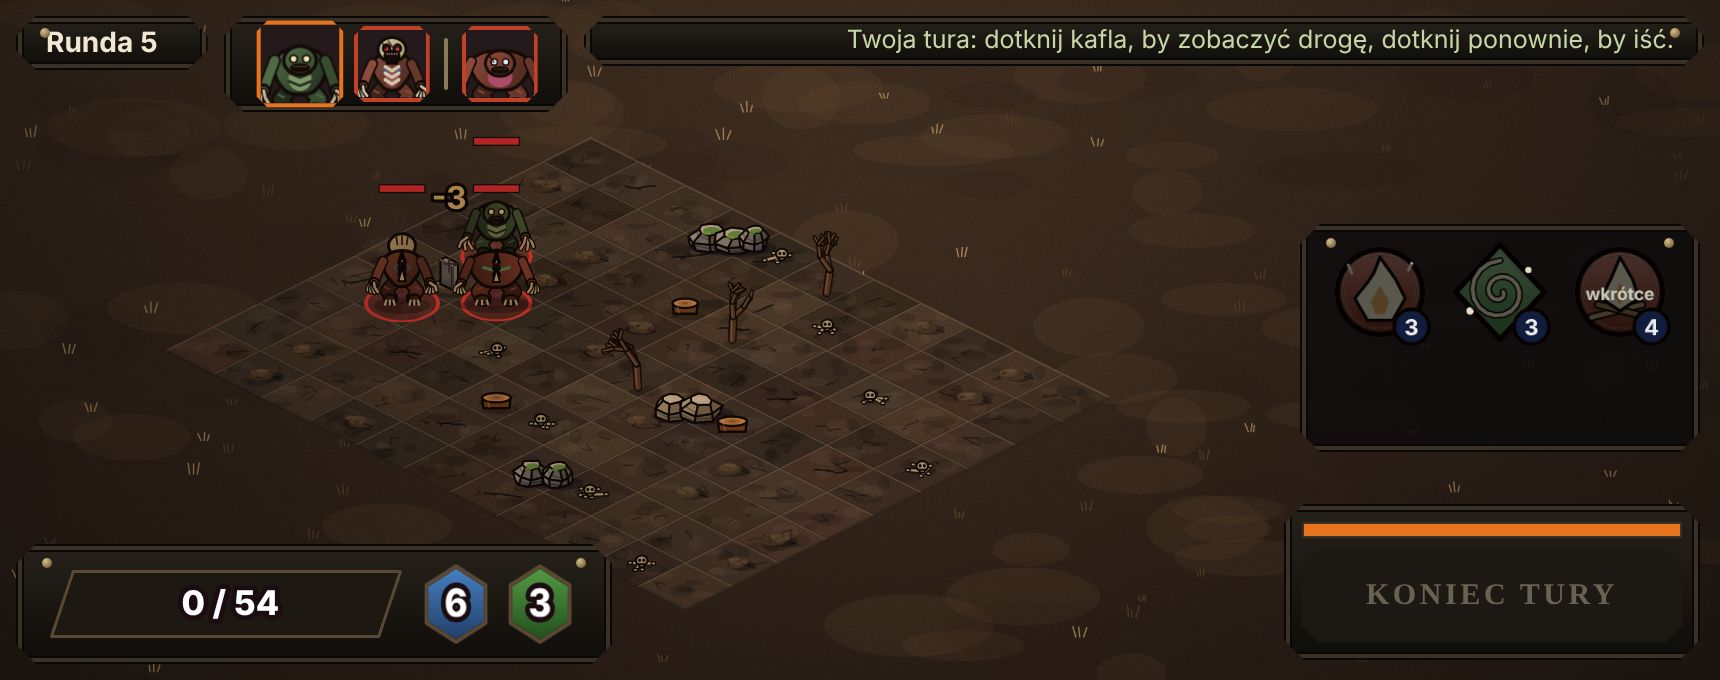
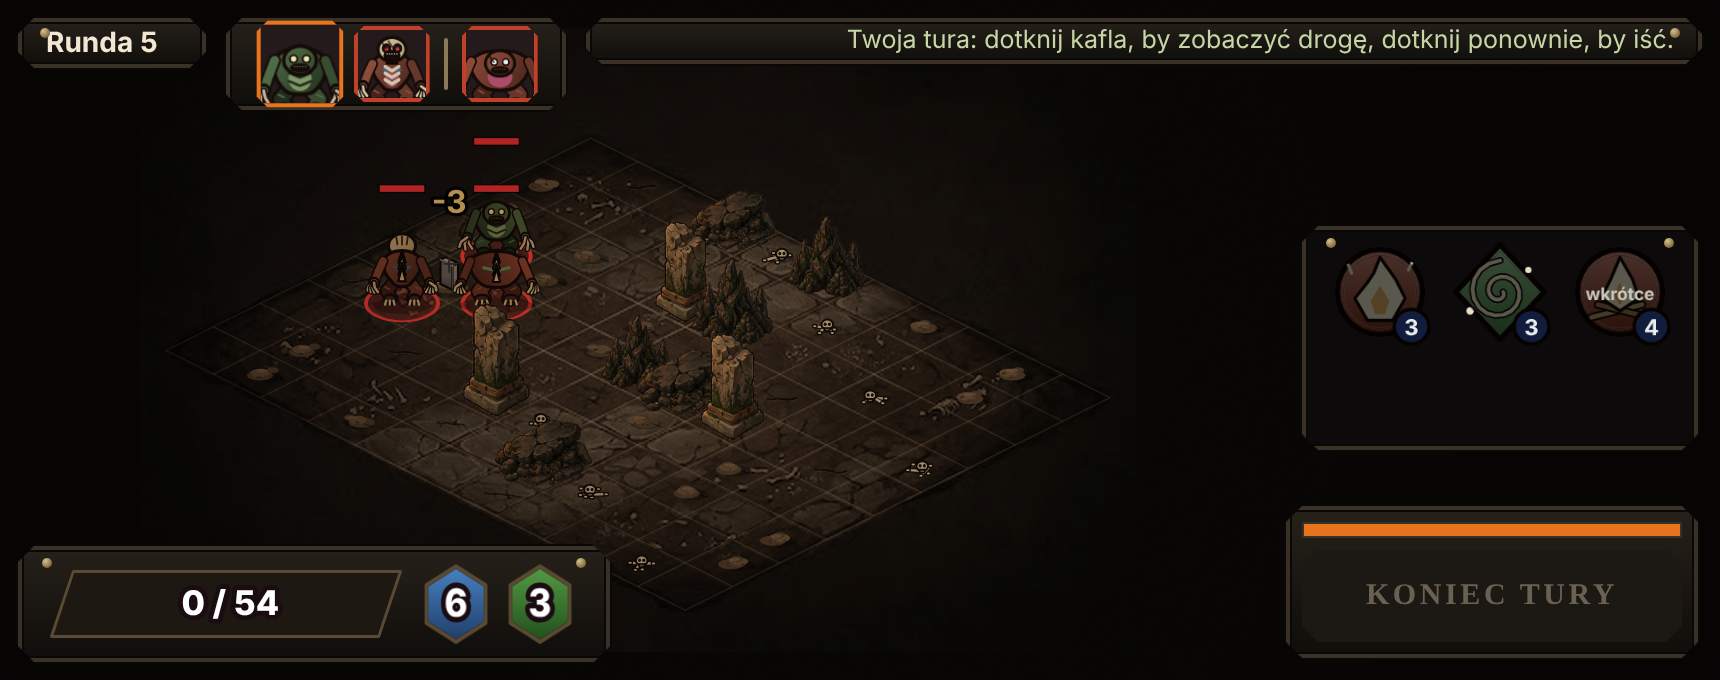
Pilotaż: 15 obrazów i tło areny w grze (sosna, brzoza, martwe drzewo, głaz, krzew, skrzynia, latarnia, studnia, chata, jama, nagrobek, pniak, przeszkody areny), nagrobki przy krypcie; narzędzie remove_checker do usuwania wypieczonej szachownicy
Claude-Session: https://claude.ai/code/session_01YGgK3XekFYaLDhBRBtmmRq

diff --git a/src/art/worldview.js b/src/art/worldview.js
@@ -18,6 +18,8 @@ export const MAXZ = 8, CS = 6, SUB = 8, SHS = 12, SHB = 2, LEVELS = [0.5, 0.75, 
 
 export const makeGrid = () => new IsoGrid(N, N, { x: N * 36, y: MAXZ * HZ + 60 });
 
+// rodzaje obiektów świata rysowane z gotowych obrazów (gdy się wczytały): sc przelicza skalę obiektu na skalę obrazu, vary dodaje drobne różnice rozmiaru
+const IMG_KIND = { oak: { key: 'dab', vary: true }, pine: { key: 'sosna', vary: true }, birch: { key: 'brzoza', vary: true }, dead: { key: 'martwe', vary: true }, rock: { key: 'glaz', sc: (o) => 0.5 + 0.5 * (o.sc || 1) }, bush: { key: 'krzew', sc: (o) => (o.sc || 1) * 1.1 }, crate: { key: 'skrzynia' }, barrel: { key: 'beczka' }, lamp: { key: 'latarnia' }, well: { key: 'studnia' }, stump: { key: 'pniak' }, grave: { key: 'nagrobek' } };
 const TREE = { oak: 1, pine: 1, birch: 1, dead: 1, swamp: 1 };
 const SMALL = { bush: (g, x, y, sc, s, o) => NA.bush(g, x, y, s, { biome: o.biome, sc: sc * 0.62 }), rock: (g, x, y, sc, s) => NA.rock(g, x, y, s, { sc: sc * 1.15 }), flowers: (g, x, y, sc, s) => NA.flowers(g, x, y, s, { sc: 0.8 }), mushrooms: (g, x, y, sc, s) => NA.mushrooms(g, x, y, s, { sc: 1.1 }), stump: (g, x, y, sc, s) => NA.stump(g, x, y, s, { sc: 1.1 }) };
 const PROP = { lamp: (g, x, y) => lampPost(g, x, y, 1.35), bench: (g, x, y) => bench(g, x, y, 1.25), barrel: (g, x, y, s) => barrel(g, x, y, 1.1, s), crate: (g, x, y, s) => crate(g, x, y, 1.1, s), cart: (g, x, y, s) => cart(g, x, y, 1.2, s), sack: (g, x, y) => sack(g, x, y, 1.1), logs: (g, x, y) => logs(g, x, y, 1.2), well: (g, x, y, s) => well(g, x, y, 1.2, s), fence: (g, x, y, s, o) => fence(g, x, y, 1.2, s, o && o.dir) };
@@ -253,8 +255,8 @@ export class WorldView {
   }
   objectDrawer(o) {
     const sd = o.seed % 7 + 1;
-    if (o.k === 'oak' && this.imgs.dab) { const flip = sd % 2 === 1, sc = 0.88 + 0.12 * (sd % 3); return [`img:dab:${flip ? 1 : 0}:${sd % 3}`, assetDim('dab', sc), (gg, ax, ay) => drawAsset(gg, this.imgs.dab, 'dab', ax, ay, { flip, sc })]; }
-    if (o.k === 'barrel' && this.imgs.beczka) return ['img:beczka', assetDim('beczka'), (gg, ax, ay) => drawAsset(gg, this.imgs.beczka, 'beczka', ax, ay)];
+    const I = IMG_KIND[o.k];
+    if (I && this.imgs[I.key]) { const flip = sd % 2 === 1, q = Math.round((I.sc ? I.sc(o) : 1) * 8) / 8 * (I.vary ? 0.9 + 0.1 * (sd % 3) : 1), key = `img:${I.key}:${flip ? 1 : 0}:${q.toFixed(2)}`; return [key, assetDim(I.key, q), (gg, ax, ay) => drawAsset(gg, this.imgs[I.key], I.key, ax, ay, { flip, sc: q })]; }
     if (TREE[o.k]) { const spec = genTree(sd, o.k, o.biome || 'summer'); return [`${o.k}:${sd}:${o.biome || ''}`, SPR[o.k], (gg, ax, ay) => drawTree(gg, ax, ay, spec)]; }
     if (SMALL[o.k]) { const sc = o.sc || 1; return [`${o.k}:${sd}:${o.biome || ''}:${Math.round(sc * 4)}`, SPR[o.k], (gg, ax, ay) => SMALL[o.k](gg, ax, ay, sc, sd, o)]; }
     if (PROP[o.k]) return [`${o.k}:${sd}:${o.dir || ''}`, SPR[o.k], (gg, ax, ay) => PROP[o.k](gg, ax, ay, sd, o)];
@@ -264,7 +266,7 @@ export class WorldView {
   // źródła światła w świecie (lampy, pochodnie przy wejściach) w pikselach świata: używane w nocy i do migotania
   collectLights() {
     const out = [], w = this.w;
-    for (const o of w.objects) if (o.k === 'lamp') { const p = this.pos(o.x, o.y); out.push({ x: p[0], y: p[1] - 50, r: 130, a: 0.9, ph: o.x * 7.3 + o.y }); }
+    for (const o of w.objects) if (o.k === 'lamp') { const p = this.pos(o.x, o.y), L = ASSETS.latarnia, lit = this.imgs.latarnia; out.push({ x: lit ? p[0] + (L.lights[0][0] - 0.5) * L.w : p[0], y: lit ? p[1] + L.lights[0][1] * L.h - (L.h - L.foot) : p[1] - 50, r: 130, a: 0.9, ph: o.x * 7.3 + o.y }); }
     // wejścia: światło wychodzi z pochodni (płomienie na słupach przy portyku krypty) albo z dziupli jamy, a nie z całej bryły
     w.entrances.forEach((e, i) => { const p = this.pos(e.at[0], e.at[1]), sc = this.entSpecs[i].scale || 1;
       const A = ASSETS.krypta; if (e.kind === 'krypta' && this.imgs.krypta) for (const [fx, fy] of A.lights) out.push({ x: p[0] + (fx - 0.5) * A.w, y: p[1] + fy * A.h - (A.h - A.foot), r: 95, a: 0.95, ph: i + fx * 7 });
@@ -337,8 +339,10 @@ export class WorldView {
   drawWithOcclusion(g, occ, scale, drawFn) {
     drawFn(); if (occ && occ.length) for (const k of occ) this.redrawTile(g, k, scale);
   }
+  // chata z obrazu na podstawie budynku typu cottage: szerokość z obrysu, podstawa w środku obrysu
+  bldDraw(b) { if (b.s.kind === 'cottage' && this.imgs.chata) { const A = ASSETS.chata, sc = (b.w + b.d) * 36 * 0.95 / A.w; return [`bi:${b.s.seed}`, assetDim('chata', sc), (gg, ax, ay) => drawAsset(gg, this.imgs.chata, 'chata', ax, ay, { sc }), true]; } return [`b:${b.s.seed}`, SPR.budynek, (gg, ax, ay) => { gg.save(); gg.translate(ax, ay); gg.scale(b.k, b.k); drawBuilding(gg, 0, 0, b.s); gg.restore(); }, false]; }
   // rysunek wejścia: gotowy obraz (krypta), gdy się wczytał, inaczej generator
-  entDraw(i) { const e = this.w.entrances[i]; if (e.kind === 'krypta' && this.imgs.krypta) return [`ei:${i}`, assetDim('krypta'), (gg, ax, ay) => drawAsset(gg, this.imgs.krypta, 'krypta', ax, ay)]; return [`e:${i}`, SPR[e.kind], (gg, ax, ay) => drawEntrance(gg, ax, ay, this.entSpecs[i])]; }
+  entDraw(i) { const e = this.w.entrances[i]; if (e.kind === 'krypta' && this.imgs.krypta) return [`ei:${i}`, assetDim('krypta'), (gg, ax, ay) => drawAsset(gg, this.imgs.krypta, 'krypta', ax, ay)]; if (e.kind === 'jama' && this.imgs.jama) return [`ei:${i}`, assetDim('jama'), (gg, ax, ay) => drawAsset(gg, this.imgs.jama, 'jama', ax, ay)]; return [`e:${i}`, SPR[e.kind], (gg, ax, ay) => drawEntrance(gg, ax, ay, this.entSpecs[i])]; }
   // cały świat widoczny w oknie (cam: środek w px świata, view: {w,h} w px css, zoom). Najpierw cały teren (niezależna warstwa), potem wszystkie
   // przedmioty i postacie od tyłu do przodu; wyższy teren zasłania tylko te przedmioty, które faktycznie leżą za nim.
   draw(g, cam, view, zoom, dpr, t, entities = []) {
@@ -367,9 +371,9 @@ export class WorldView {
     for (const it of items) {
       if (it.o) { const o = it.o, [sx, sy] = this.pos(o.x, o.y); if (sx < L - 160 || sx > R + 160 || sy < T - 40 || sy > B + 340) continue; const dr = this.objectDrawer(o); if (!dr) continue; if (o._occ === undefined) o._occ = this.occluderTiles(o.x, o.y, heightAt(w, o.x, o.y));
         const fa = TREE[o.k] ? this.fadeAlpha(o, dr[0], [sx - dr[1][2], sy - dr[1][3], dr[1][0], dr[1][1]], it.d, player) : 1; g.globalAlpha = fa; this.drawWithOcclusion(g, o._occ, scale, () => this.drawSprite(g, dr[0], dr[1], dr[2], sx, sy, scale)); g.globalAlpha = 1; }
-      else if (it.b) { const b = it.b, z = heightAt(w, b.sx - 0.5, b.sy - 0.5), [sx, sy] = this.proj(b.sx, b.sy, z); if (b._occ === undefined) b._occ = this.occluderTiles(b.sx, b.sy, z);
-        g.globalAlpha = this.fadeAlpha(b, `b:${b.s.seed}`, [sx - SPR.budynek[2], sy - SPR.budynek[3], SPR.budynek[0], SPR.budynek[1]], it.d - 1.2, player); this.drawWithOcclusion(g, b._occ, scale, () => this.drawSprite(g, `b:${b.s.seed}`, SPR.budynek, (gg, ax, ay) => { gg.save(); gg.translate(ax, ay); gg.scale(b.k, b.k); drawBuilding(gg, 0, 0, b.s); gg.restore(); }, sx, sy, scale)); g.globalAlpha = 1;
-        if (this.quality.smoke) this.drawSmoke(g, b, sx, sy, t); }
+      else if (it.b) { const b = it.b, z = heightAt(w, b.sx - 0.5, b.sy - 0.5), bd = this.bldDraw(b), [sx, sy] = bd[3] ? this.proj(b.sx - b.w / 2, b.sy - b.d / 2, z) : this.proj(b.sx, b.sy, z); if (b._occ === undefined) b._occ = this.occluderTiles(b.sx, b.sy, z);
+        g.globalAlpha = this.fadeAlpha(b, bd[0], [sx - bd[1][2], sy - bd[1][3], bd[1][0], bd[1][1]], it.d - 1.2, player); this.drawWithOcclusion(g, b._occ, scale, () => this.drawSprite(g, bd[0], bd[1], bd[2], sx, sy, scale)); g.globalAlpha = 1;
+        if (this.quality.smoke && !bd[3]) this.drawSmoke(g, b, sx, sy, t); }
       else if (it.en !== undefined) { const i = it.en, e = w.entrances[i], [sx, sy] = this.pos(e.at[0], e.at[1]), ed = this.entDraw(i); if (e._occ === undefined) e._occ = this.occluderTiles(e.at[0], e.at[1], heightAt(w, e.at[0], e.at[1]));
         g.globalAlpha = this.fadeAlpha(e, ed[0], [sx - ed[1][2], sy - ed[1][3], ed[1][0], ed[1][1]], it.d - 1.5 - 1.2, player); this.drawWithOcclusion(g, e._occ, scale, () => this.drawSprite(g, ed[0], ed[1], ed[2], sx, sy, scale)); g.globalAlpha = 1; }
       else { const e = it.e, occ = this.occluderTiles(e.x, e.y, heightAt(w, e.x, e.y)); this.drawWithOcclusion(g, occ, scale, () => e.draw(g, ...this.pos(e.x, e.y))); }

diff --git a/www/walka.html b/www/walka.html
@@ -82,6 +82,7 @@ import {genKopacz,drawKopacz} from '../src/art/creatures.js';
 import {DUNGEONS,dungeonLevel,levelAdvice} from '../src/game/dungeons.js';
 import {composeEncounter,spawnEncounter,enemyCap} from '../src/game/encounter.js';
 import {referenceHero} from '../src/game/reference.js';
+import {ASSETS} from '../src/art/assets.js';
 import {makeArena,ARENA} from '../src/game/arena.js';
 import {loadCharacter,saveCharacter} from '../src/game/save.js';
 import {addXp,chamberReward,newRun,loadRun,saveRun,clearRun,roomSeed,levelFromXp} from '../src/game/run.js';
@@ -127,10 +128,12 @@ const COL={earth:'#d2a45c',fire:'#ff6a3a',water:'#5ab0ff',air:'#7ae07a',neutral:
 
 const bg=document.createElement('canvas');
 // tło areny z gotowego obrazu (www/img/arena-<motyw>.png, rozmiar planszy w pikselach świata razy 2): gdy plik istnieje, zastępuje podłogę z generatora
+// przeszkody areny z gotowych obrazów (gdy się wczytają; inaczej generatory)
+const OBST=['przeszkoda1','przeszkoda2','stalagmit'].map(k=>{const im=new Image(),o={k,im,ok:false};im.onload=()=>{o.ok=true};im.src=ASSETS[k].src;return o});
 let arenaImg=null;{const im=new Image();im.onload=()=>{arenaImg=im;if(typeof renderBg==='function'&&cv.width>2)renderBg()};im.src='img/arena-'+(DG?DG.theme:'arena')+'.png'}
 let moodLayer=null;
 function renderBg(){bg.width=cv.width;bg.height=cv.height;const b=bg.getContext('2d');moodLayer=makeMoodLayer(document,cv.width,cv.height,mood);
-  N.ground(b,bg.width,bg.height,7,{biome:TH.biome});N.tufts(b,bg.width,bg.height,7,Math.round(bg.width*bg.height/1400*TH.tufts),null,{biome:TH.biome});
+  if(arenaImg){b.fillStyle='#0a0908';b.fillRect(0,0,bg.width,bg.height)}else{N.ground(b,bg.width,bg.height,7,{biome:TH.biome});N.tufts(b,bg.width,bg.height,7,Math.round(bg.width*bg.height/1400*TH.tufts),null,{biome:TH.biome});}
   b.setTransform(view.s,0,0,view.s,view.ox,view.oy);if(arenaImg)b.drawImage(arenaImg,0,0,WORLD.w,WORLD.h);else drawFlagstones(b,grid,7,TH.stone);drawGridLines(b,grid,'rgba(220,200,170,.16)');
   // ślady dawnych walk na kaflach: krew, kości, pęknięcia (stałe, zależne tylko od pozycji)
   for(let y=0;y<ROWS;y++)for(let x=0;x<COLS;x++){const h=(x*73+y*151+17)%11,c=grid.center(x,y);if(h<4&&TH.decals.length)DECALS[TH.decals[h%TH.decals.length]](b,c[0]+(h===0?4:0),c[1]+1,.9,x*7+y*3+h)}
@@ -315,6 +318,7 @@ function frame(now){
     if(preview.kind==='cast'){drawCellOutline(g,grid,preview.x,preview.y,'#ffffff',3.4);const c=grid.center(preview.x,preview.y);overlay.push(()=>label(c,`${preview.lo}-${preview.hi}${preview.known?'':'?'}`,'#ffd0a0'))}}
   const items=[];
   for(const kk of state.blocked){const x=kk%grid.cols,y=Math.floor(kk/grid.cols),c=grid.center(x,y);const t=(x*7+y*3)%3;
+    const ob=OBST[t];if(DG&&ob.ok){const A=ASSETS[ob.k],sc=1+((x*5+y*11)%3)*0.06;items.push({d:x+y+.5,f:()=>{g.imageSmoothingQuality='high';g.drawImage(ob.im,c[0]-A.w*sc/2,c[1]+12+A.foot-A.h*sc,A.w*sc,A.h*sc)}});continue}
     items.push({d:x+y+.5,f:()=>t===0?N.rock(g,c[0],c[1]+10,x*9+y,{sc:.9}):t===1?N.stump(g,c[0],c[1]+8,x+y*5):N.deadTree(g,c[0],c[1]+10,x*3+y,{sc:.8})})}
   for(const cl of state.clouds){const c=grid.center(cl.x,cl.y);items.push({d:cl.x+cl.y+.9,f:()=>ashCloud(g,c[0],c[1]+6,1.1,cl.x*7+cl.y)})}
   for(const gr of state.graves){const c=grid.center(gr.x,gr.y);items.push({d:gr.x+gr.y+.5,f:()=>grave(g,c[0],c[1]+8,1.15)})}

diff --git a/src/world/kraina.js b/src/world/kraina.js
@@ -162,6 +162,9 @@ export function generateWorld(seed = 1) {
   { const [ex, ey] = ROAD_W[3]; for (const [dx, dy, kk] of [[3.2, -1.6, 'logs'], [2.2, 1.9, 'logs'], [4.2, 0.4, 'crate'], [1.6, -2.8, 'barrel']]) put(kk, ex + dx, ey + dy, { prop: true }); }
   const vprops = [['lamp', -4, -4.4], ['lamp', 4.4, -4], ['lamp', -4.4, 4.6], ['lamp', 4.8, 4.4], ['bench', -5.8, 1.6], ['bench', 6.2, 1.8], ['barrel', -7.4, -6.6], ['crate', -8.6, -7], ['barrel', 7.4, -6.6], ['cart', 2.8, 9.2], ['sack', -2, 9]];
   for (const [kk, dx, dy] of vprops) put(kk, vx + dx, vy + dy, { prop: true });
+  // nagrobki na cmentarnym wzgórzu: kilka przy platformie krypty (na jej poziomie), poza drogą i schodami
+  { const [cx2, cy2] = ENTRANCES[0].at; let n = 0; for (let i = 0; i < 40 && n < 7; i++) { const a = hash2(seed + 91, i, 3) * 6.28, r = 4.6 + 2.4 * hash2(seed + 92, i, 5), x = cx2 + Math.cos(a) * r, y = cy2 + Math.sin(a) * r, k = idx(Math.floor(x), Math.floor(y));
+      if (!inb(Math.floor(x), Math.floor(y)) || lvl[k] !== CRYPT_L || ramp[k] || cellKind[k] === KIND.road || blocked[k] || objects.some((o) => Math.hypot(o.x - x, o.y - y) < 1.4)) continue; put('grave', x, y, { prop: true }); blocked[k] = Math.max(blocked[k], 2); n++; } }
   // studnia przy placu i kawałek płotu przy wozie (zajmują kafle, więc ścieżki je omijają)
   { const solid = (kk, dx, dy, extra = {}) => { put(kk, vx + dx, vy + dy, { prop: true, ...extra }); blocked[idx(Math.floor(vx + dx), Math.floor(vy + dy))] = Math.max(blocked[idx(Math.floor(vx + dx), Math.floor(vy + dy))], 2); };
     solid('well', 0.4, -7.6); for (let i = 0; i < 4; i++) solid('fence', 6.2 + i * 0.95, 7.6, { dir: 'x' }); for (let i = 1; i < 3; i++) solid('fence', 10.0, 7.6 + i * 0.95, { dir: 'y' }); }

diff --git a/src/art/assets.js b/src/art/assets.js
@@ -5,6 +5,21 @@ export const ASSETS = {
   beczka: { src: 'img/beczka.png', w: 28, h: 37, foot: 3 },
   dab: { src: 'img/dab.png', w: 190, h: 221, foot: 6 },
   krypta: { src: 'img/krypta.png', w: 300, h: 362, foot: 14, lights: [[0.384, 0.633], [0.88, 0.542]] },
+  sosna: { src: 'img/sosna.png', w: 130, h: 209, foot: 6 },
+  brzoza: { src: 'img/brzoza.png', w: 180, h: 197, foot: 6 },
+  martwe: { src: 'img/martwe.png', w: 120, h: 146, foot: 5 },
+  glaz: { src: 'img/glaz.png', w: 70, h: 47, foot: 1 },
+  krzew: { src: 'img/krzew.png', w: 44, h: 34, foot: 1 },
+  skrzynia: { src: 'img/skrzynia.png', w: 28, h: 26, foot: 1 },
+  latarnia: { src: 'img/latarnia.png', w: 22, h: 63, foot: 2, lights: [[0.3, 0.2]] },
+  studnia: { src: 'img/studnia.png', w: 56, h: 74, foot: 2 },
+  chata: { src: 'img/chata.png', w: 280, h: 270, foot: 32 },
+  jama: { src: 'img/jama.png', w: 240, h: 160, foot: 5, lights: [[0.5, 0.55]] },
+  nagrobek: { src: 'img/nagrobek.png', w: 30, h: 38, foot: 1 },
+  pniak: { src: 'img/pniak.png', w: 40, h: 30, foot: 1 },
+  przeszkoda1: { src: 'img/przeszkoda1.png', w: 66, h: 45, foot: 1 },
+  przeszkoda2: { src: 'img/przeszkoda2.png', w: 46, h: 77, foot: 2 },
+  stalagmit: { src: 'img/stalagmit.png', w: 56, h: 60, foot: 2 },
 };
 export function loadAssets(doc, onLoad) {
   const out = {}; if (!doc || !doc.defaultView || !doc.defaultView.Image) return out;

diff --git a/tools/remove_checker.py b/tools/remove_checker.py
@@ -1,0 +1,72 @@
+#!/usr/bin/env python3
+"""Usuwa "szachownicę" wypieczoną w obrazie (generatory często zapisują ją zamiast prawdziwej przezroczystości).
+Użycie: python3 tools/remove_checker.py wejscie.jpg wyjscie.png
+Metoda: z brzegów obrazu zalewamy obszar szarych pikseli o wartościach dwóch najczęstszych odcieni szachownicy, potem czyścimy halo na obrysie
+i zostawiamy tylko duże spójne obszary (drobne zabłąkane plamki znikają)."""
+import sys
+from collections import deque
+import numpy as np
+from PIL import Image
+
+def remove(src, tol=18):
+    im = Image.open(src).convert('RGB'); a = np.array(im).astype(np.int16); H, W, _ = a.shape
+    neutral = (np.abs(a[:, :, 0] - a[:, :, 1]) < 9) & (np.abs(a[:, :, 1] - a[:, :, 2]) < 9); g = a.mean(axis=2)
+    border = np.concatenate([g[0], g[-1], g[:, 0], g[:, -1]]); nb = np.concatenate([neutral[0], neutral[-1], neutral[:, 0], neutral[:, -1]])
+    vals = np.round(border[nb]).astype(int); hist = np.bincount(vals, minlength=256).astype(float); hist = np.convolve(hist, np.ones(7), 'same')
+    m1 = int(hist.argmax()); h2 = hist.copy(); h2[max(0, m1 - 20):m1 + 21] = 0; m2 = int(h2.argmax()) if h2.max() > hist.max() * 0.05 else m1
+    ok = neutral & ((np.abs(g - m1) <= tol) | (np.abs(g - m2) <= tol))
+    bg = np.zeros((H, W), bool); q = deque()
+    for x in range(W):
+        for y in (0, H - 1):
+            if ok[y, x] and not bg[y, x]: bg[y, x] = True; q.append((y, x))
+    for y in range(H):
+        for x in (0, W - 1):
+            if ok[y, x] and not bg[y, x]: bg[y, x] = True; q.append((y, x))
+    while q:
+        y, x = q.popleft()
+        for dy, dx in ((1, 0), (-1, 0), (0, 1), (0, -1)):
+            ny, nx = y + dy, x + dx
+            if 0 <= ny < H and 0 <= nx < W and ok[ny, nx] and not bg[ny, nx]: bg[ny, nx] = True; q.append((ny, nx))
+    # kieszenie szachownicy zamknięte w obiekcie (między gałęziami, pod daszkiem): spójne obszary "szachownicowych" pikseli, w których są oba odcienie
+    seen = np.zeros((H, W), bool)
+    for y0 in range(H):
+        for x0 in range(W):
+            if ok[y0, x0] and not bg[y0, x0] and not seen[y0, x0]:
+                comp = [(y0, x0)]; seen[y0, x0] = True; q = deque([(y0, x0)])
+                while q:
+                    y, x = q.popleft()
+                    for dy, dx in ((1, 0), (-1, 0), (0, 1), (0, -1)):
+                        ny, nx = y + dy, x + dx
+                        if 0 <= ny < H and 0 <= nx < W and ok[ny, nx] and not bg[ny, nx] and not seen[ny, nx]: seen[ny, nx] = True; q.append((ny, nx)); comp.append((ny, nx))
+                if len(comp) >= 40 and m1 != m2:
+                    v = np.array([g[y, x] for y, x in comp]); f1 = np.mean(np.abs(v - m1) <= tol); f2 = np.mean(np.abs(v - m2) <= tol)
+                    if min(f1, f2) >= 0.18:
+                        for y, x in comp: bg[y, x] = True
+    fg = ~bg
+    # halo: neutralne jasne piksele tuż przy tle (anty-aliasing szachownicy) usuwamy w 2 przejściach
+    for _ in range(2):
+        near = np.zeros_like(bg); near[1:] |= bg[:-1]; near[:-1] |= bg[1:]; near[:, 1:] |= bg[:, :-1]; near[:, :-1] |= bg[:, 1:]
+        kill = fg & near & neutral & ((np.abs(g - m1) <= tol + 22) | (np.abs(g - m2) <= tol + 22)); bg |= kill; fg = ~bg
+    # tylko duże spójne obszary
+    lab = np.zeros((H, W), np.int32); sizes = []; n = 0
+    for y0 in range(H):
+        for x0 in range(W):
+            if fg[y0, x0] and not lab[y0, x0]:
+                n += 1; lab[y0, x0] = n; q = deque([(y0, x0)]); c = 0
+                while q:
+                    y, x = q.popleft(); c += 1
+                    for dy, dx in ((1, 0), (-1, 0), (0, 1), (0, -1)):
+                        ny, nx = y + dy, x + dx
+                        if 0 <= ny < H and 0 <= nx < W and fg[ny, nx] and not lab[ny, nx]: lab[ny, nx] = n; q.append((ny, nx))
+                sizes.append(c)
+    keep = np.zeros(n + 1, bool); big = max(sizes) if sizes else 0
+    for i, s in enumerate(sizes, 1): keep[i] = s >= big * 0.03
+    fg = keep[lab] & fg
+    alpha = fg.astype(np.float32)
+    # miękka krawędź: lekkie rozmycie kanału alfa
+    p = np.pad(alpha, 1, mode='edge'); soft = (p[:-2, 1:-1] + p[2:, 1:-1] + p[1:-1, :-2] + p[1:-1, 2:] + 4 * alpha) / 8
+    out = np.dstack([a.astype(np.uint8), (np.where(fg, np.clip(soft * 1.4, 0, 1), np.clip(soft - 0.3, 0, 1) * 1.4) * 255).astype(np.uint8)])
+    return Image.fromarray(out, 'RGBA'), (m1, m2)
+
+if __name__ == '__main__':
+    im, cols = remove(sys.argv[1]); im.save(sys.argv[2]); print('tło szachownicy:', cols, '->', sys.argv[2])

diff --git a/tools/import_asset.py b/tools/import_asset.py
@@ -23,7 +23,8 @@ arr[:, :, 3] = np.clip((arr[:, :, 3] - a.lo) / a.span, 0, 1) * 255
 ys, xs = np.where(arr[:, :, 3] > 20)
 if not len(xs): sys.exit('pusty obraz po czyszczeniu')
 im2 = Image.fromarray(arr.astype(np.uint8)).crop((xs.min(), ys.min(), xs.max() + 1, ys.max() + 1)); w, h = im2.size
-tw = max(16, round(a.world_w * a.px_per_unit)); th = round(h * tw / w); im2 = im2.resize((tw, th), Image.LANCZOS)
+tw = min(w, max(16, round(a.world_w * a.px_per_unit)))   # nie powiększamy ponad oryginał
+th = round(h * tw / w); im2 = im2.resize((tw, th), Image.LANCZOS)
 os.makedirs(a.out, exist_ok=True); path = os.path.join(a.out, a.key + '.png'); im2.save(path, optimize=True)
 wh = round(a.world_w * h / w); foot = a.foot if a.foot is not None else round(wh * 0.03)
 print(f'zapisano {path} ({tw}x{th}, {os.path.getsize(path)//1024} KB)')
